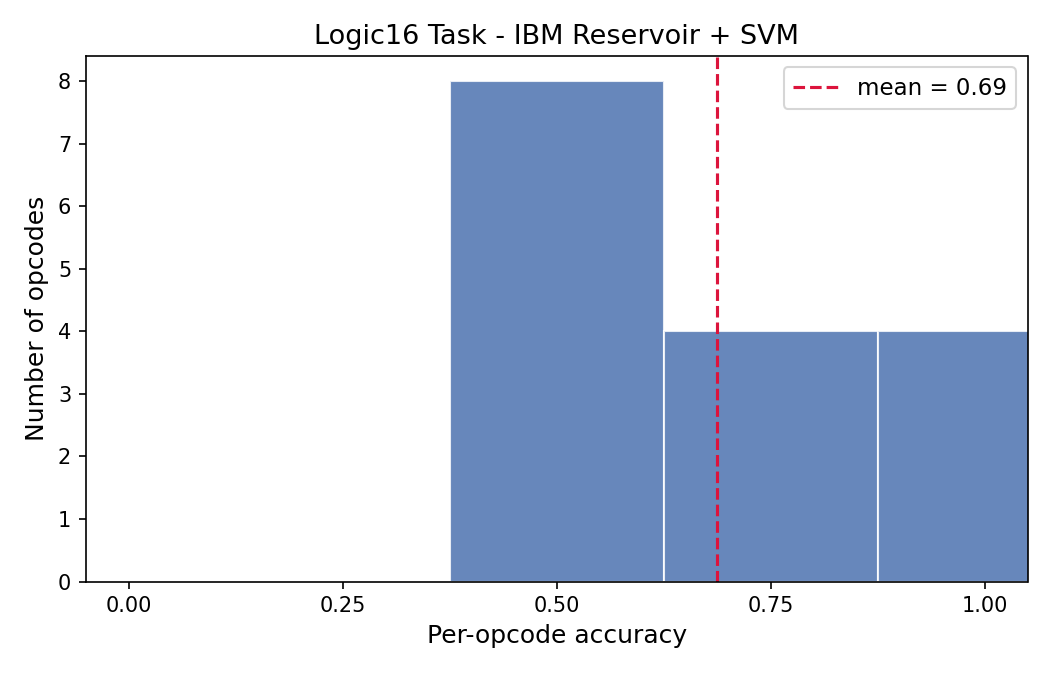
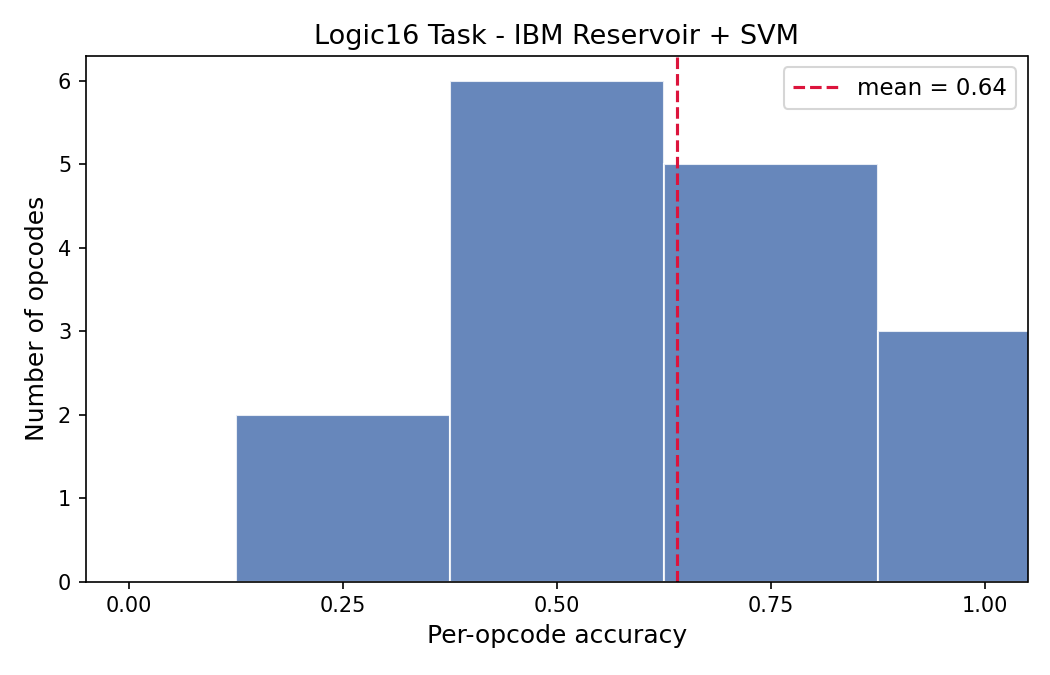
updates

diff --git a/src/computingMicrobiome/ibm/universe.py b/src/computingMicrobiome/ibm/universe.py
@@ -146,22 +146,23 @@ def _build_universe() -> _UniverseParams:
         div_cost[s] = int(rng.integers(8, 18))        # energy cost of division
         birth_energy[s] = int(rng.integers(10, 20))   # newborn energy
 
-    # External feed pattern: modest feed on a few high-band resources, weaker on
-    # some mid-band resources, almost none elsewhere. Combined with dilution,
-    # this aims to keep total resource levels roughly bounded.
+    # External feed pattern (chemostat inflow concentrations): higher
+    # concentrations for a few high-band resources, weaker for some mid-band
+    # resources, and very low for low-band resources. In `apply_dilution`, the
+    # actual inflow amount per step scales with dilution.
     feed_rate = np.zeros(N_RESOURCES_UNIVERSE, dtype=np.float32)
 
-    # 3 high-energy resources with modest feed.
+    # 3 high-energy resources with substantial inflow concentration.
     high_feed = rng.choice(high, size=3, replace=False)
-    feed_rate[high_feed] = rng.uniform(0.5, 1.5, size=3).astype(np.float32)
+    feed_rate[high_feed] = rng.uniform(50.0, 110.0, size=3).astype(np.float32)
 
-    # 5 mid-band resources with weak feed.
+    # 5 mid-band resources with moderate inflow concentration.
     mid_feed = rng.choice(mid, size=5, replace=False)
-    feed_rate[mid_feed] = rng.uniform(0.05, 0.3, size=5).astype(np.float32)
+    feed_rate[mid_feed] = rng.uniform(8.0, 25.0, size=5).astype(np.float32)
 
-    # Tiny baseline feed on a few low-band resources.
+    # Tiny baseline inflow on a few low-band resources.
     low_feed = rng.choice(low, size=5, replace=False)
-    feed_rate[low_feed] = rng.uniform(0.0, 0.05, size=5).astype(np.float32)
+    feed_rate[low_feed] = rng.uniform(0.0, 5.0, size=5).astype(np.float32)
 
     return _UniverseParams(
         maint_cost=maint_cost,

diff --git a/tests/test_ibm_backend.py b/tests/test_ibm_backend.py
@@ -104,6 +104,47 @@ def test_ibm_dilution_removes() -> None:
     assert int(state.R.sum()) == 0
 
 
+def test_ibm_feed_requires_dilution() -> None:
+    env, _ = load_params(_cfg(dilution_p=0.0, feed_rate=[200.0, 150.0]))
+    state = make_zero_state(
+        height=env.height,
+        width_grid=env.width_grid,
+        n_resources=env.n_resources,
+    )
+    apply_dilution(state, env, np.random.default_rng(0))
+    assert int(state.R.sum()) == 0
+
+
+def test_ibm_feed_inflow_increases_with_dilution() -> None:
+    cfg_base = {
+        "height": 64,
+        "width_grid": 64,
+        "n_species": 1,
+        "n_resources": 1,
+        "feed_rate": [120.0],
+        "diff_numer": 0,
+    }
+    env_low, _ = load_params(dict(cfg_base, dilution_p=0.05))
+    env_high, _ = load_params(dict(cfg_base, dilution_p=0.40))
+
+    state_low = make_zero_state(
+        height=env_low.height,
+        width_grid=env_low.width_grid,
+        n_resources=env_low.n_resources,
+    )
+    state_high = make_zero_state(
+        height=env_high.height,
+        width_grid=env_high.width_grid,
+        n_resources=env_high.n_resources,
+    )
+
+    # One-step from zero isolates feed inflow magnitude.
+    apply_dilution(state_low, env_low, np.random.default_rng(1))
+    apply_dilution(state_high, env_high, np.random.default_rng(1))
+
+    assert int(state_high.R.sum()) > int(state_low.R.sum())
+
+
 class _DummyRNG:
     def __init__(self, outputs: list[np.ndarray]):
         self._outputs = outputs

diff --git a/src/computingMicrobiome/ibm/dilution.py b/src/computingMicrobiome/ibm/dilution.py
@@ -9,15 +9,29 @@ from .state import GridState
 
 
 def apply_dilution(state: GridState, env: EnvParams, rng: np.random.Generator) -> None:
-    """Apply stochastic washout and optional feed inflow."""
+    """Apply stochastic washout and chemostat-coupled feed inflow.
+
+    Inflow is tied to the dilution rate: when ``dilution_p == 0``, no feed is
+    injected. ``env.feed_rate`` is treated as an inflow-medium concentration in
+    ``[0, Rmax]`` and converted to stochastic molecule counts per cell.
+    """
     if env.dilution_p > 0.0:
         removed = rng.binomial(state.R.astype(np.int64), env.dilution_p).astype(np.int32)
         R_next = state.R.astype(np.int32) - removed
     else:
         R_next = state.R.astype(np.int32, copy=True)
 
-    if np.any(env.feed_rate > 0.0):
-        feed = np.rint(env.feed_rate).astype(np.int32)[:, None, None]
+    if env.dilution_p > 0.0 and np.any(env.feed_rate > 0.0):
+        p_in = (
+            float(env.dilution_p)
+            * np.clip(
+                env.feed_rate.astype(np.float64) / float(max(env.Rmax, 1)),
+                0.0,
+                1.0,
+            )
+        )
+        p_grid = np.broadcast_to(p_in[:, None, None], state.R.shape)
+        feed = rng.binomial(int(env.Rmax), p_grid).astype(np.int32)
         R_next = R_next + feed
 
     state.R = np.clip(R_next, 0, env.Rmax).astype(np.uint8)

diff --git a/example_tasks/task_7_learn_logic16_ibm.py b/example_tasks/task_7_learn_logic16_ibm.py
@@ -43,7 +43,7 @@ BOUNDARY = "periodic"
 # Target recurrence used when lattice width allows it.
 RECURRENCE_TARGET = 8
 ITR = 8
-D_PERIOD = 100
+D_PERIOD = 25
 REPEATS = 1
 FEATURE_MODE = "cue_tick"
 OUTPUT_WINDOW = 2
@@ -69,8 +69,8 @@ TRACE_DEPTH = LOGIC16_STREAM_LEN * (ITR + 1) + 8
 
 IBM_CFG = make_ibm_config_from_species(
     species_indices=[0, 1, 2, 4, 5, 6, 8, 9, 10, 11, 12],
-    height=80,
-    width_grid=80,
+    height=8,
+    width_grid=8,
     overrides={
         "state_width_mode": "raw",
         "input_trace_depth": TRACE_DEPTH,
